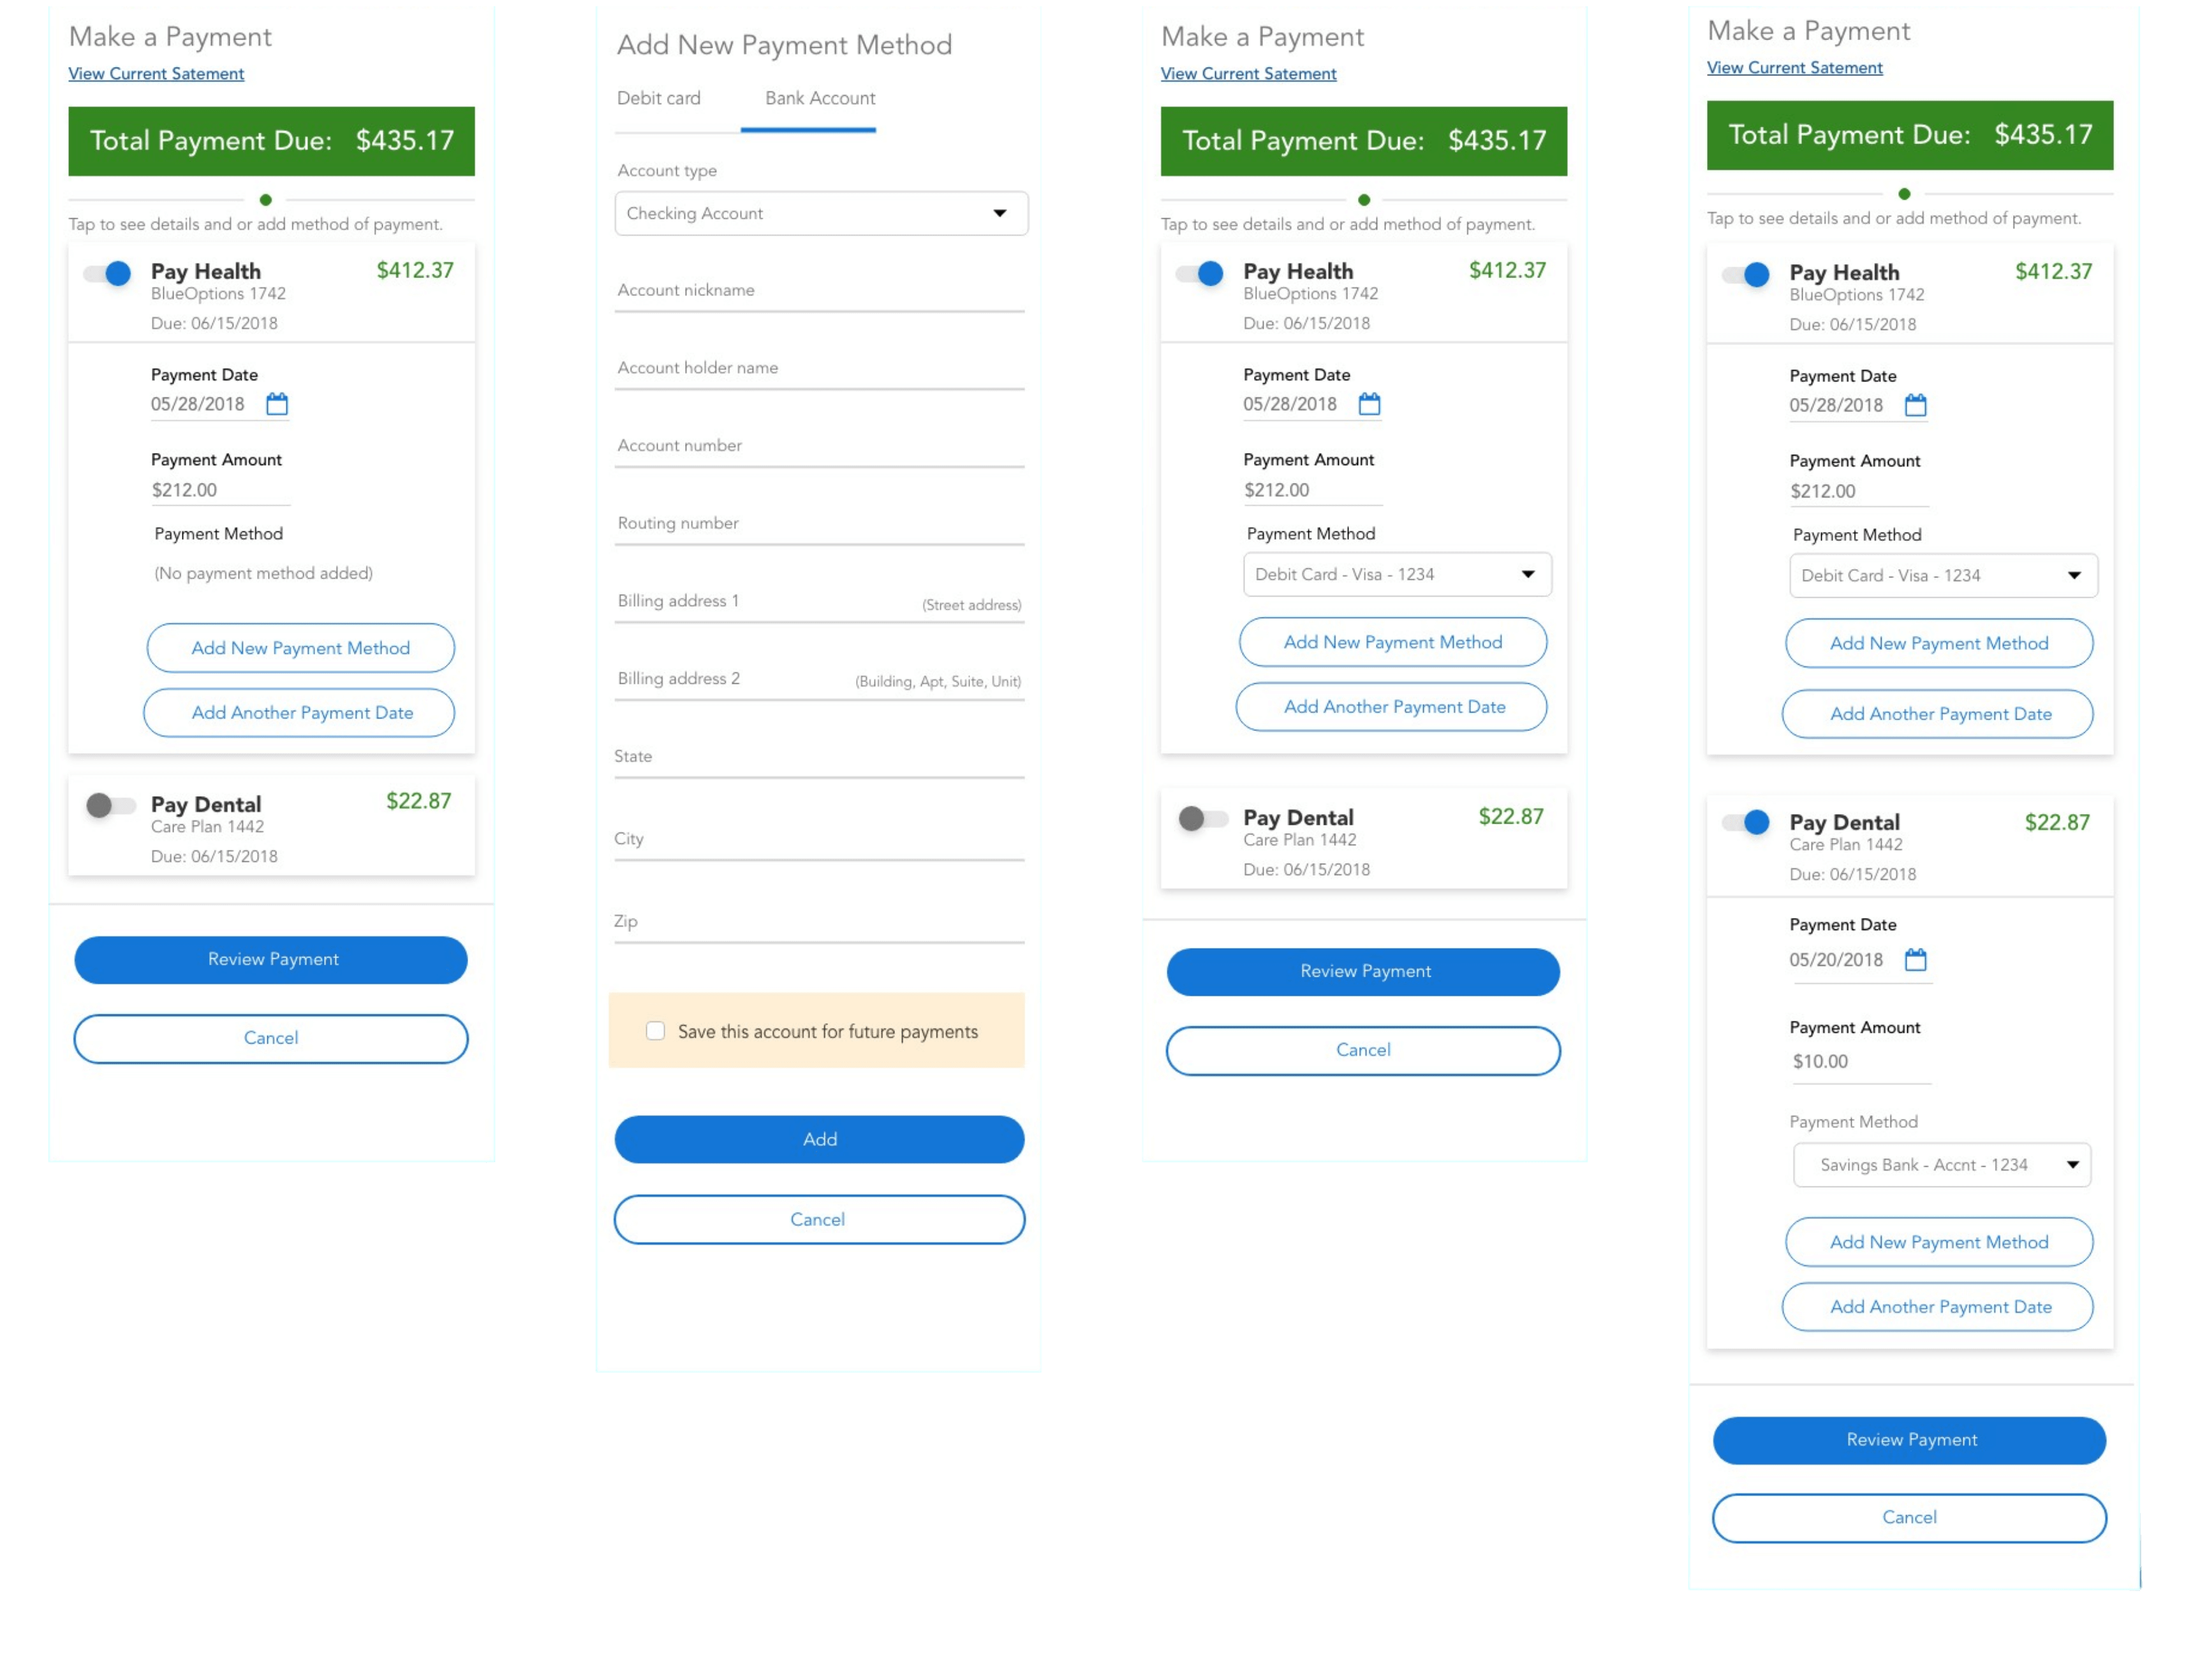
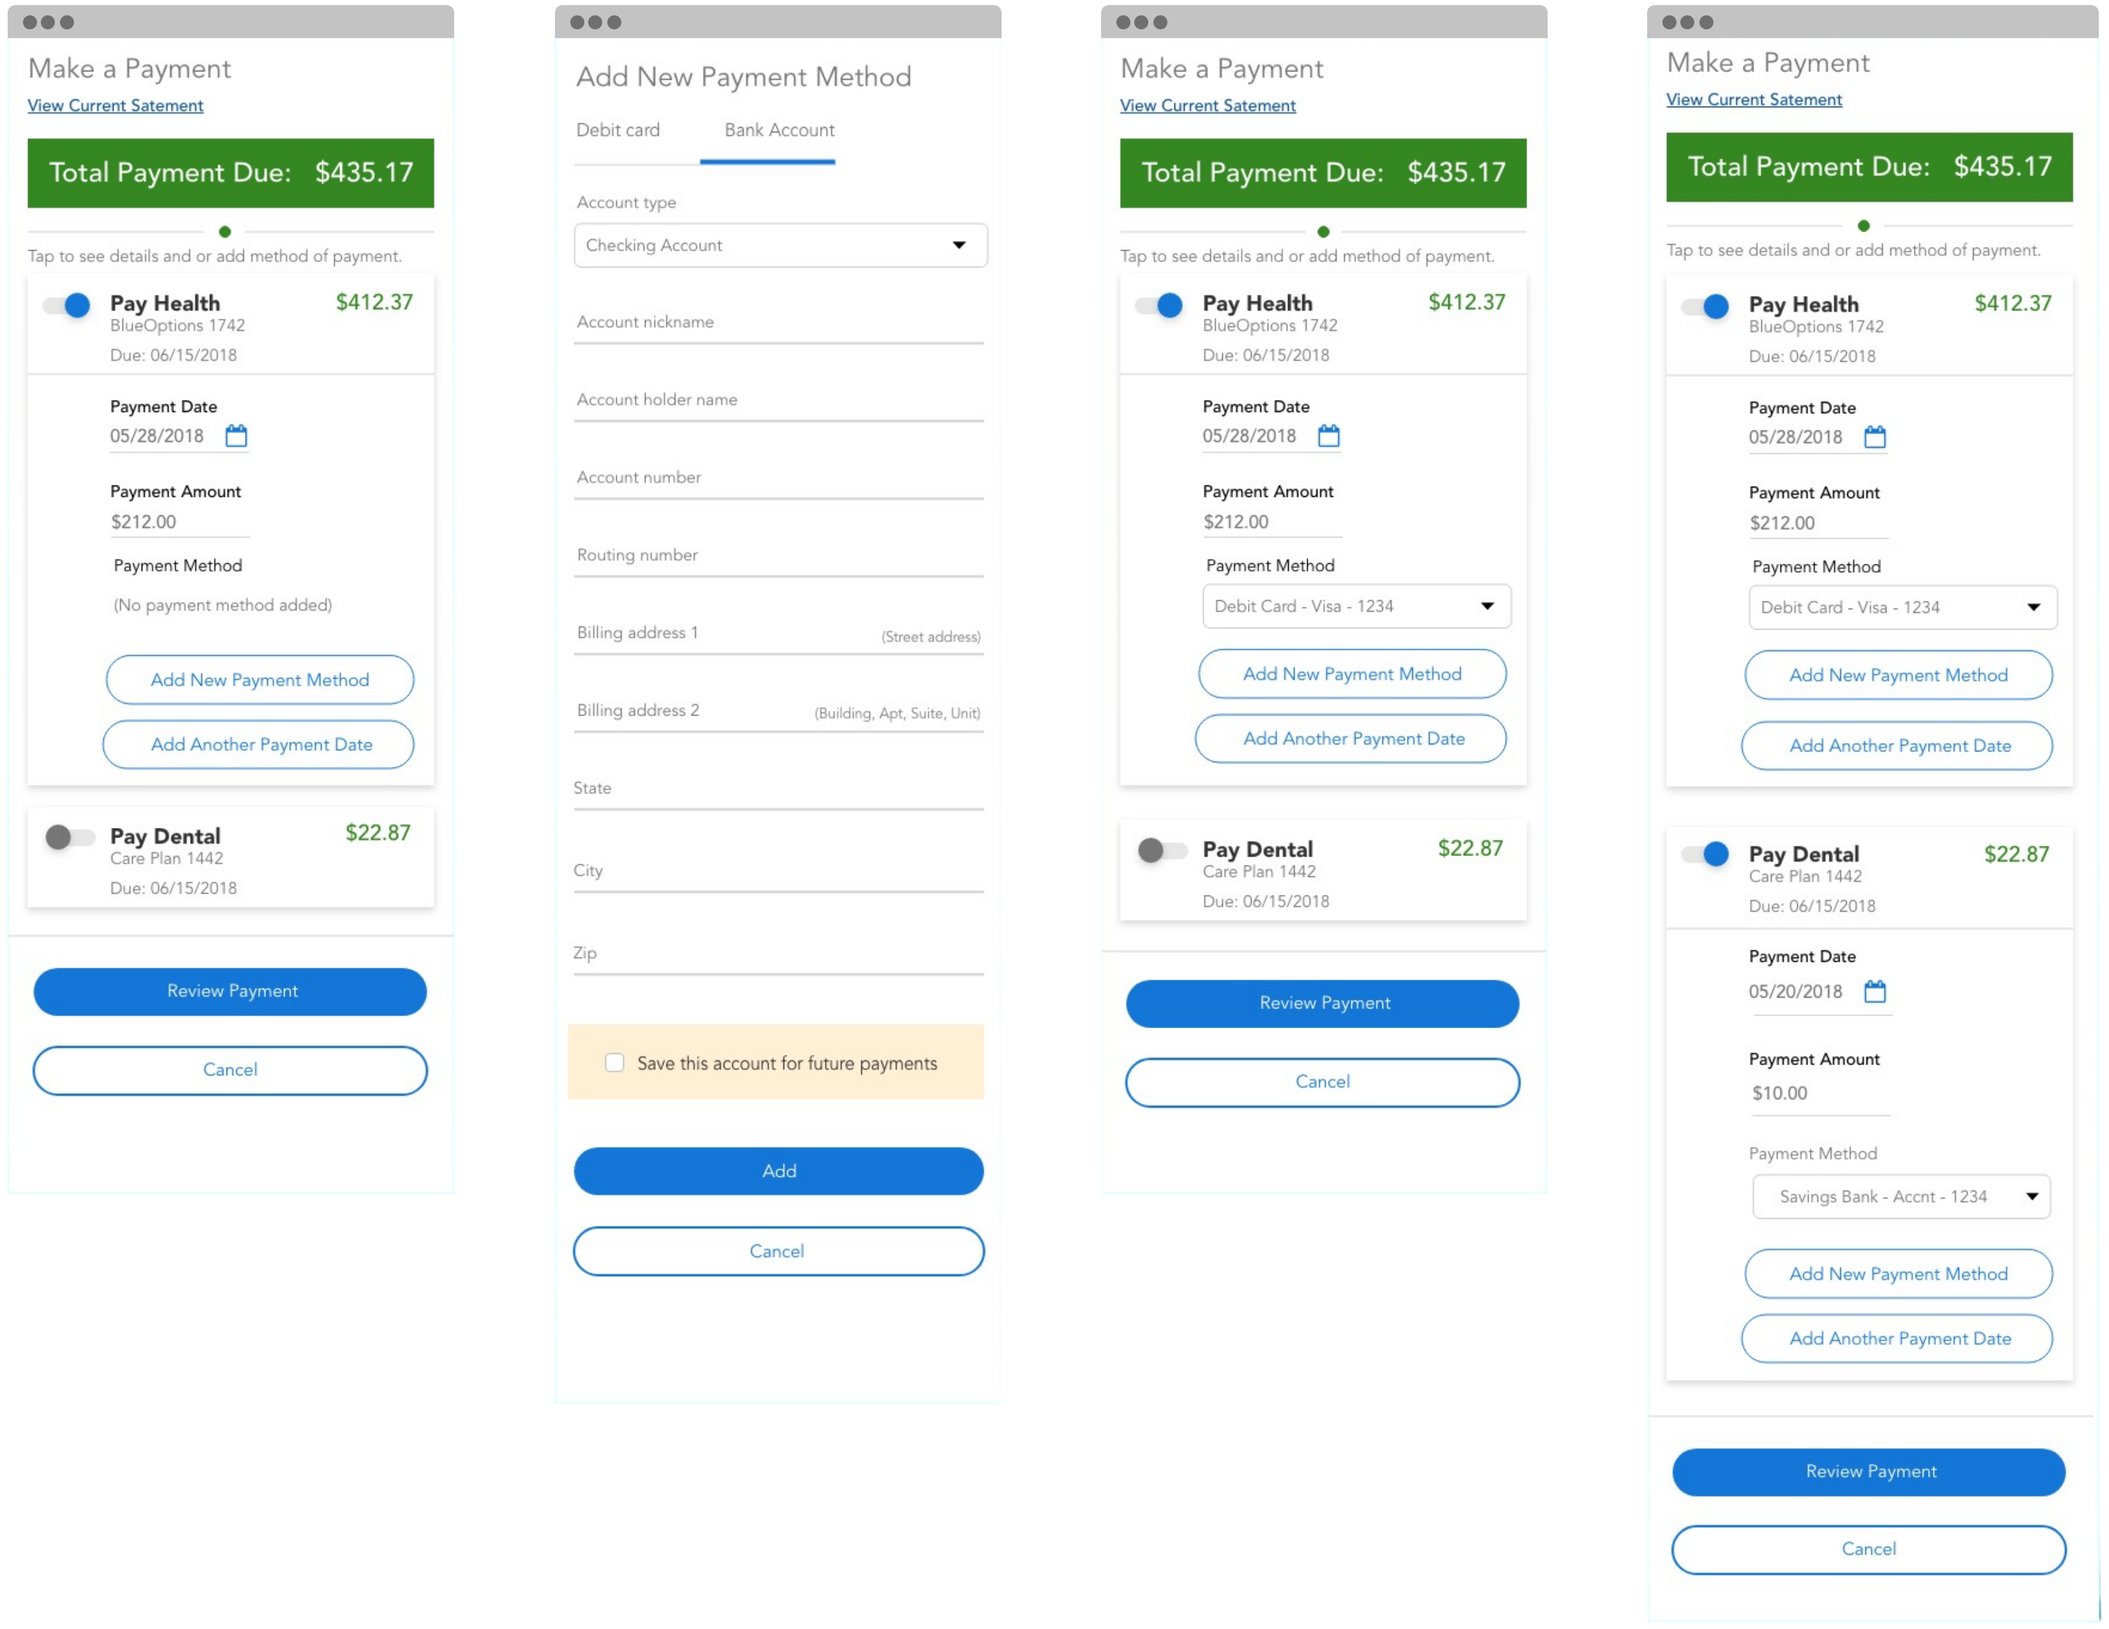
added images for billing styles

diff --git a/index.html b/index.html
@@ -72,7 +72,7 @@
             <div class="row">
                 <div class="col-lg-11 home-hero-style">
                     <h1 class="text-white cover-text san-serif-headline display-1 d-sm-block d-md-none fw-bold">Hi, I'm Arthur</h1>
-                    <h2 class="text-white cover-text san-serif-headline display-5 d-sm-block d-md-none">Visual Designer & Front-End Enthusiast </h2>
+                    <h2 class="text-white cover-text fw-light display-5 d-sm-block d-md-none">Visual Designer & Front-End Enthusiast </h2>
                     <h1 class="text-white cover-text san-serif-headline display-3 d-none d-sm-block fw-bold pb-4">Hi, I'm Arthur</h1>
                     <h2 class="text-white cover-text fw-light display-6 d-none d-sm-block">Visual Designer & Front-End Enthusiast </h2>
                     <h5 class="d-none d-sm-block fw-light">I specialize in UI Design with 8 years of experience and a passion for branding.</h5>

diff --git a/workspace.html b/workspace.html
@@ -126,7 +126,7 @@
                     <p>Visual Designer</p>
                 </div>
                 <div class="col-lg-8 d-flex justify-content-end">
-                    <img src="img/ggl-img/google-circle-graphic.png" class="img-fluid intro-asset-style" alt="...">
+                    <img src="img/ggl-img/google-circle-graphic.png" class="img-fluid intro-asset-style" width="70%" alt="...">
                 </div>
             </div>
         </div>

diff --git a/billing-app.html b/billing-app.html
@@ -158,6 +158,10 @@
                     </p>
                 </div>
                 <div class="col-lg-12">
+                    <img src="img/bill-img/app-0.png" class="img-fluid pt-4 pb-3" width="22%" alt="...">
+                
+                </div>
+                <div class="col-lg-12">
                     <img src="img/bill-img/app-1.png" class="img-fluid pt-4" alt="...">
                     
                 </div>

diff --git a/scss/nav-style.scss b/scss/nav-style.scss
@@ -282,7 +282,7 @@ padding-top: 1.5rem;
 }
 
 .big-image {
-  height: 50vh;
+  height: 55vh;
   width: 100vw;
   position: relative;
   background-size: cover;

diff --git a/scss/nav-style.css b/scss/nav-style.css
@@ -211,7 +211,7 @@
 }
 
 .big-image {
-  height: 50vh;
+  height: 55vh;
   width: 100vw;
   position: relative;
   background-size: cover;
